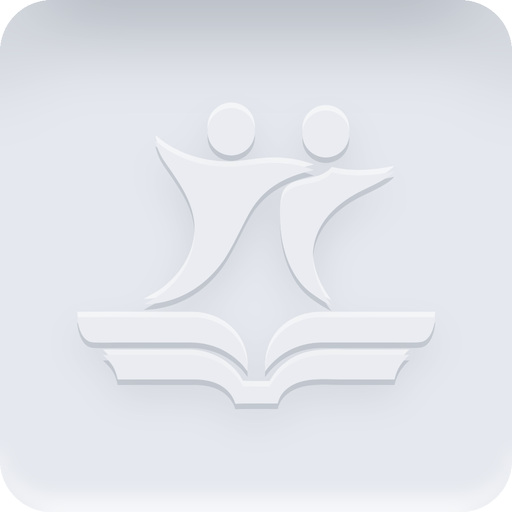
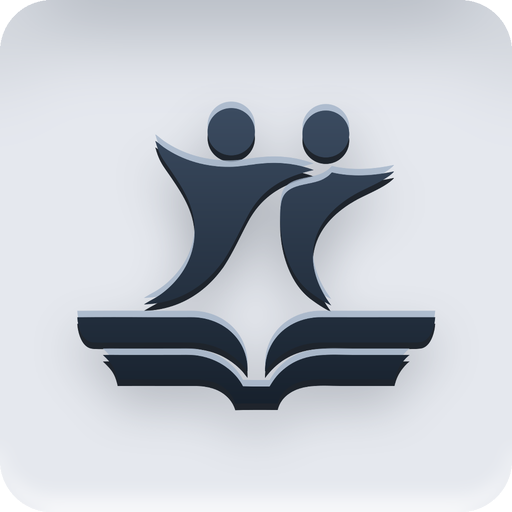
Make the raised brand mark dark enamel so it shows in the code (#2334)
The installer's pale-on-pale mark is too faint in the middle of a QR code. The
badge keeps the installer's construction (pressed-in floor, raised mark, soft
shadow, lit top edge, deeper lower edge) but the mark is now deep slate with a
vertical sheen, not a flat black shape. Same badge size and clear zone, so the
scanning budget is unchanged; the render tests still decode every case.

Claude-Session: https://claude.ai/code/session_016XEZ6J9WnB3U1recxvLm2p

Changed region(s): [[0.125, 0.1875, 0.875, 0.8125]]

diff --git a/app/lib/src/widgets/dance_code_view.dart b/app/lib/src/widgets/dance_code_view.dart
@@ -14,8 +14,8 @@ import '../theme/app_spacing.dart';
 /// `dance_code_render_test.dart` decodes a rendered one to show it still scans.
 const double kDanceCodeMarkFraction = 0.20;
 
-/// The raised brand mark on its pale floor, baked by
-/// `tools/brand/generate_raised_mark.py` in the style of the Mac installer.
+/// The raised brand mark, dark on the Mac installer's pale floor, baked by
+/// `tools/brand/generate_raised_mark.py` in the installer's bump-mapped style.
 const String _markBadgeAsset = 'assets/brand/mark-raised.png';
 
 /// A QR code needs a quiet zone of at least this many modules on each side.

diff --git a/app/test/dance_code_render_test.dart b/app/test/dance_code_render_test.dart
@@ -67,8 +67,8 @@ class _Seen {
   final int floorPixels;
 
   /// Pixels in the badge's middle that are clearly not floor: the raised
-  /// mark's lit edges, lower edges and shadows. Proof the artwork is there,
-  /// not just its floor.
+  /// mark's dark face, edges and shadow. Proof the artwork is there, not just
+  /// its floor.
   final int artPixels;
 }
 

diff --git a/tools/brand/generate_raised_mark.py b/tools/brand/generate_raised_mark.py
@@ -2,17 +2,23 @@
 """The brand mark, raised, for the middle of a Show code QR code (#2334).
 
 The Mac installer window (``generate_dmg_background.py``) draws the brand's
-small mark "standing raised" on a pressed-in floor: a face barely lighter than
-the floor, lit along its top edge, darker along its bottom edge, with a small
-soft shadow, all in pale tone on tone. This script gives the Show code screen
-the same look, using the installer's own shading helpers, palette and
-proportions, so the two read as one family.
+small mark "standing raised" on a pressed-in floor: lit along its top edge,
+darker along its bottom edge, with a small soft shadow. This script gives the
+Show code screen the same construction, using the installer's own shading
+helpers, palette, floor and proportions, so the two read as one family.
+
+One thing differs on purpose: the installer's mark is pale on a pale floor,
+which is far too faint in the middle of a QR code. Here the mark is dark
+enamel: a deep slate face with a vertical sheen (lighter at the top, deeper at
+the bottom), a lit top edge, a deeper lower edge and a stronger soft shadow on
+the floor. It is a dark mark with a raised, lit surface, not a flat black
+shape, and its colours come from the app's own dark scheme.
 
 The output is a small rounded-square badge: the pale installer floor, pressed
 in (shadowed upper rim, lit lower rim), with the mark raised on it. The app
 draws it over the white clear zone at the middle of a code. It is baked
-(opaque, floor included) rather than drawn at run time because the effect only
-reads on the grey floor; a highlight on pure white would vanish.
+(opaque, floor included) rather than drawn at run time so the shading matches
+the installer's exactly.
 
 The mark's shading is specified in points against the installer's 22 pt mark
 height, then scaled with the mark, so the badge keeps the installer's
@@ -57,6 +63,15 @@ MARK_FRACTION = 0.70
 # packaging/macos/dmg-background.png away from the mark.
 FLOOR = (0xE5, 0xE8, 0xEE)
 
+# The mark's dark enamel. The face runs from FACE_TOP to FACE_BOTTOM over the
+# mark's height; both sit around the app's Soft Dark surface (#1E2A38, the
+# brand tile's colour, `BrandMark.brandBackground`).
+FACE_TOP = (0x3B, 0x4B, 0x60)
+FACE_BOTTOM = (0x17, 0x21, 0x2D)
+LIT_EDGE = (0xA2, 0xB3, 0xC8)
+LOWER_EDGE = (0x0B, 0x11, 0x19)
+SHADOW = dmg.ON_SURFACE
+
 
 def badge() -> Image.Image:
     side = SIZE * SUPERSAMPLE
@@ -83,7 +98,8 @@ def badge() -> Image.Image:
         rim_light.filter(ImageFilter.GaussianBlur(0.6 * s)), outline)
     img = dmg.tint(img, dmg.WHITE, dmg.faded(rim_light, 0.65))
 
-    # The raised mark: the installer's recipe, layer for layer.
+    # The raised mark: the installer's construction (soft shadow, lower edge,
+    # lit top edge, face) in dark enamel.
     origin = ((side - mark.width) / 2, (side - mark.height) / 2)
 
     def placed(dy_pt: float = 0, alpha: float = 1.0, blur: float = 0) -> Image.Image:
@@ -93,11 +109,19 @@ def badge() -> Image.Image:
             layer = layer.filter(ImageFilter.GaussianBlur(blur * s))
         return dmg.faded(layer, alpha)
 
-    img = dmg.tint(img, dmg.MARK_SHADOW, placed(1.2, 0.14, 1.4))
-    img = dmg.tint(img, dmg.MARK_LOWER_EDGE, placed(0.4, 0.5))
-    img = dmg.tint(img, dmg.WHITE, placed(-0.4, 0.6))
-    face = tuple(round(c + (255 - c) * 0.18) for c in FLOOR)
-    img = dmg.tint(img, face, placed())
+    img = dmg.tint(img, SHADOW, placed(1.6, 0.34, 1.8))
+    img = dmg.tint(img, LOWER_EDGE, placed(0.5, 0.9))
+    img = dmg.tint(img, LIT_EDGE, placed(-0.5, 0.8))
+
+    # The face: a vertical sheen over exactly the mark's height.
+    top = round(origin[1])
+    ramp = Image.linear_gradient("L").resize((side, mark.height))
+    sheen = Image.new("L", img.size, 0)
+    sheen.paste(255, (0, top + mark.height, side, side))
+    sheen.paste(ramp, (0, top))
+    face = Image.composite(Image.new("RGB", img.size, FACE_BOTTOM),
+                           Image.new("RGB", img.size, FACE_TOP), sheen)
+    img = Image.composite(face, img, placed())
 
     out = img.resize((SIZE, SIZE), Image.LANCZOS).convert("RGBA")
     out.putalpha(outline.resize((SIZE, SIZE), Image.LANCZOS))

diff --git a/app/assets/brand/README.md b/app/assets/brand/README.md
@@ -52,7 +52,7 @@ Pulled verbatim from `app/lib/src/theme/color_schemes.dart` — do not eyeball.
 | `icon-foreground.svg` | Android adaptive foreground (108 vb, illustration scaled 0.80 into the 66dp safe circle) |
 | `icon-background.svg` | solid Soft Dark background (mirrors `@color/ic_launcher_background`) |
 | `icon-monochrome.svg` | single-colour small-mark silhouette (`currentColor`) for Android 13+ themed icons |
-| `mark-raised.png` | **generated raster**, not an SVG source: the small mark raised on a pale pressed-in floor, in the Mac installer's bump-mapped style, for the middle of a Show code QR code. Rebuilt by `tools/brand/generate_raised_mark.py` (local only; needs Pillow and cairosvg) from `mark-small.svg`, reusing the shading of `tools/brand/generate_dmg_background.py`. Committed, like the installer background |
+| `mark-raised.png` | **generated raster**, not an SVG source: the small mark raised in dark enamel (lit top edge, deeper lower edge, soft shadow) on the Mac installer's pale pressed-in floor, in the installer's bump-mapped construction, for the middle of a Show code QR code. Rebuilt by `tools/brand/generate_raised_mark.py` (local only; needs Pillow and cairosvg) from `mark-small.svg`, reusing the shading of `tools/brand/generate_dmg_background.py`. Committed, like the installer background |
 
 The in-app reuse path (`app/lib/src/widgets/brand_mark.dart`) now renders these
 SVGs via **`flutter_svg`** so the nav-rail mark / empty-state marks stay
